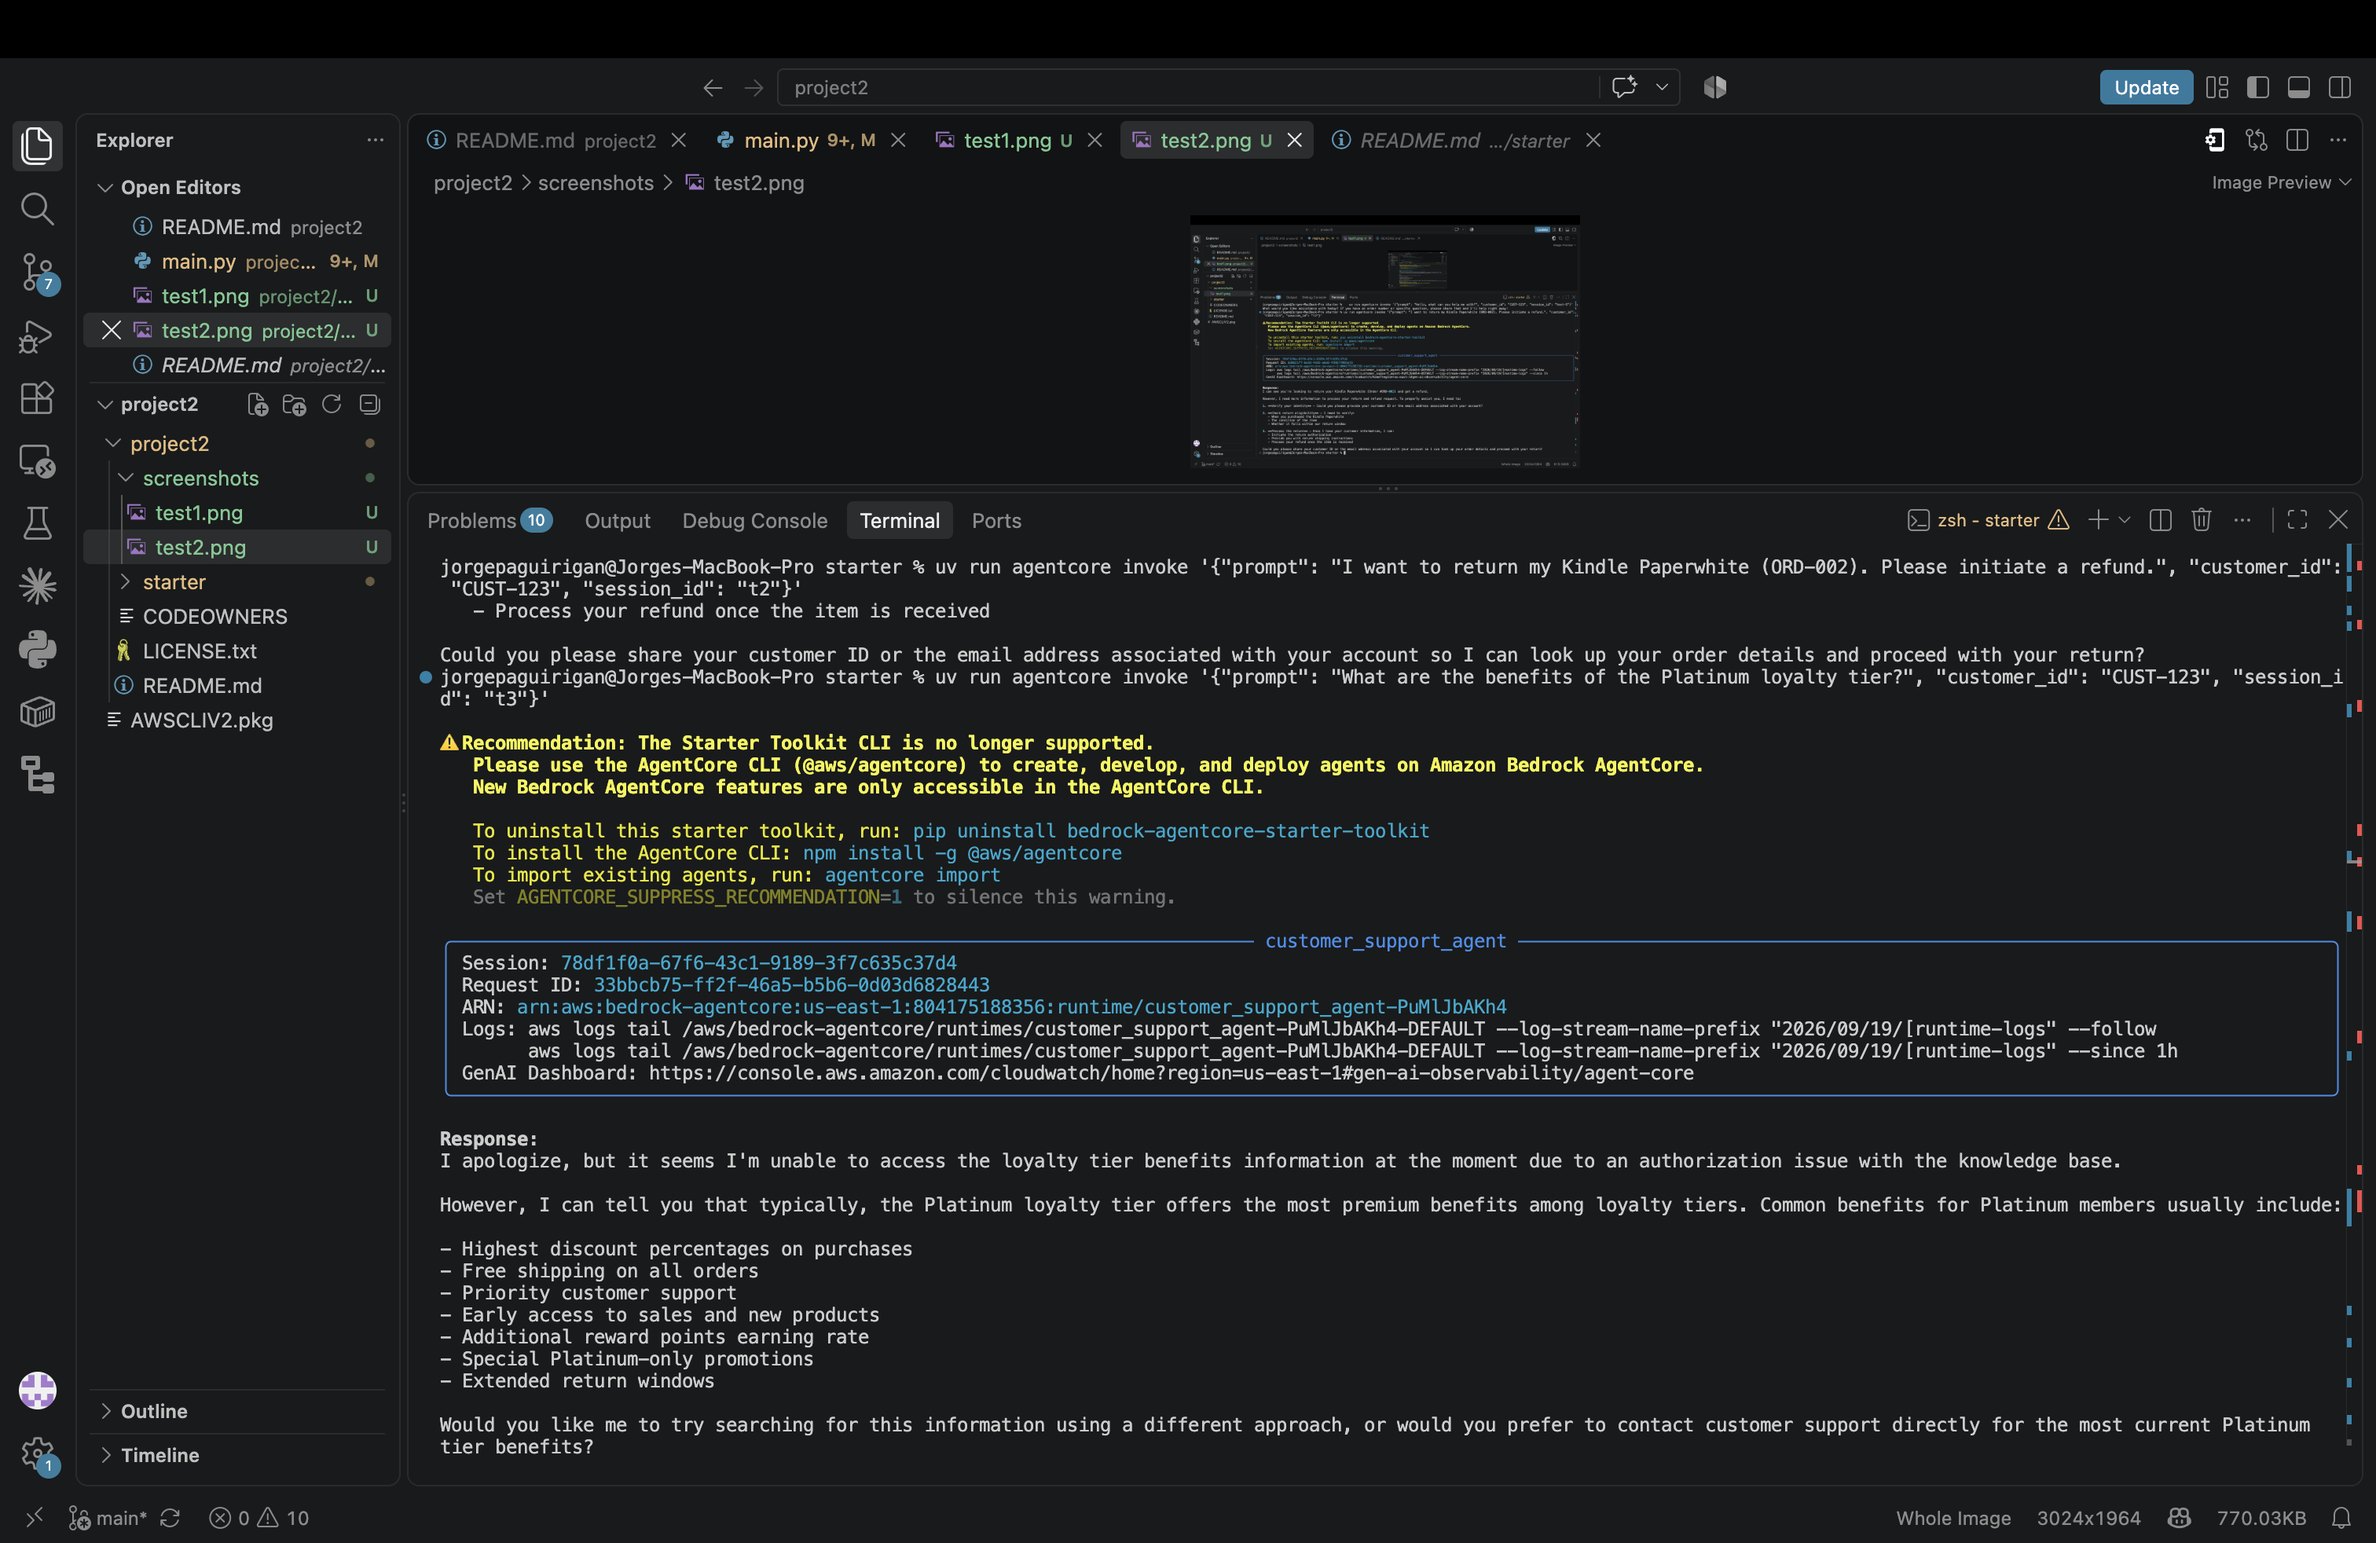
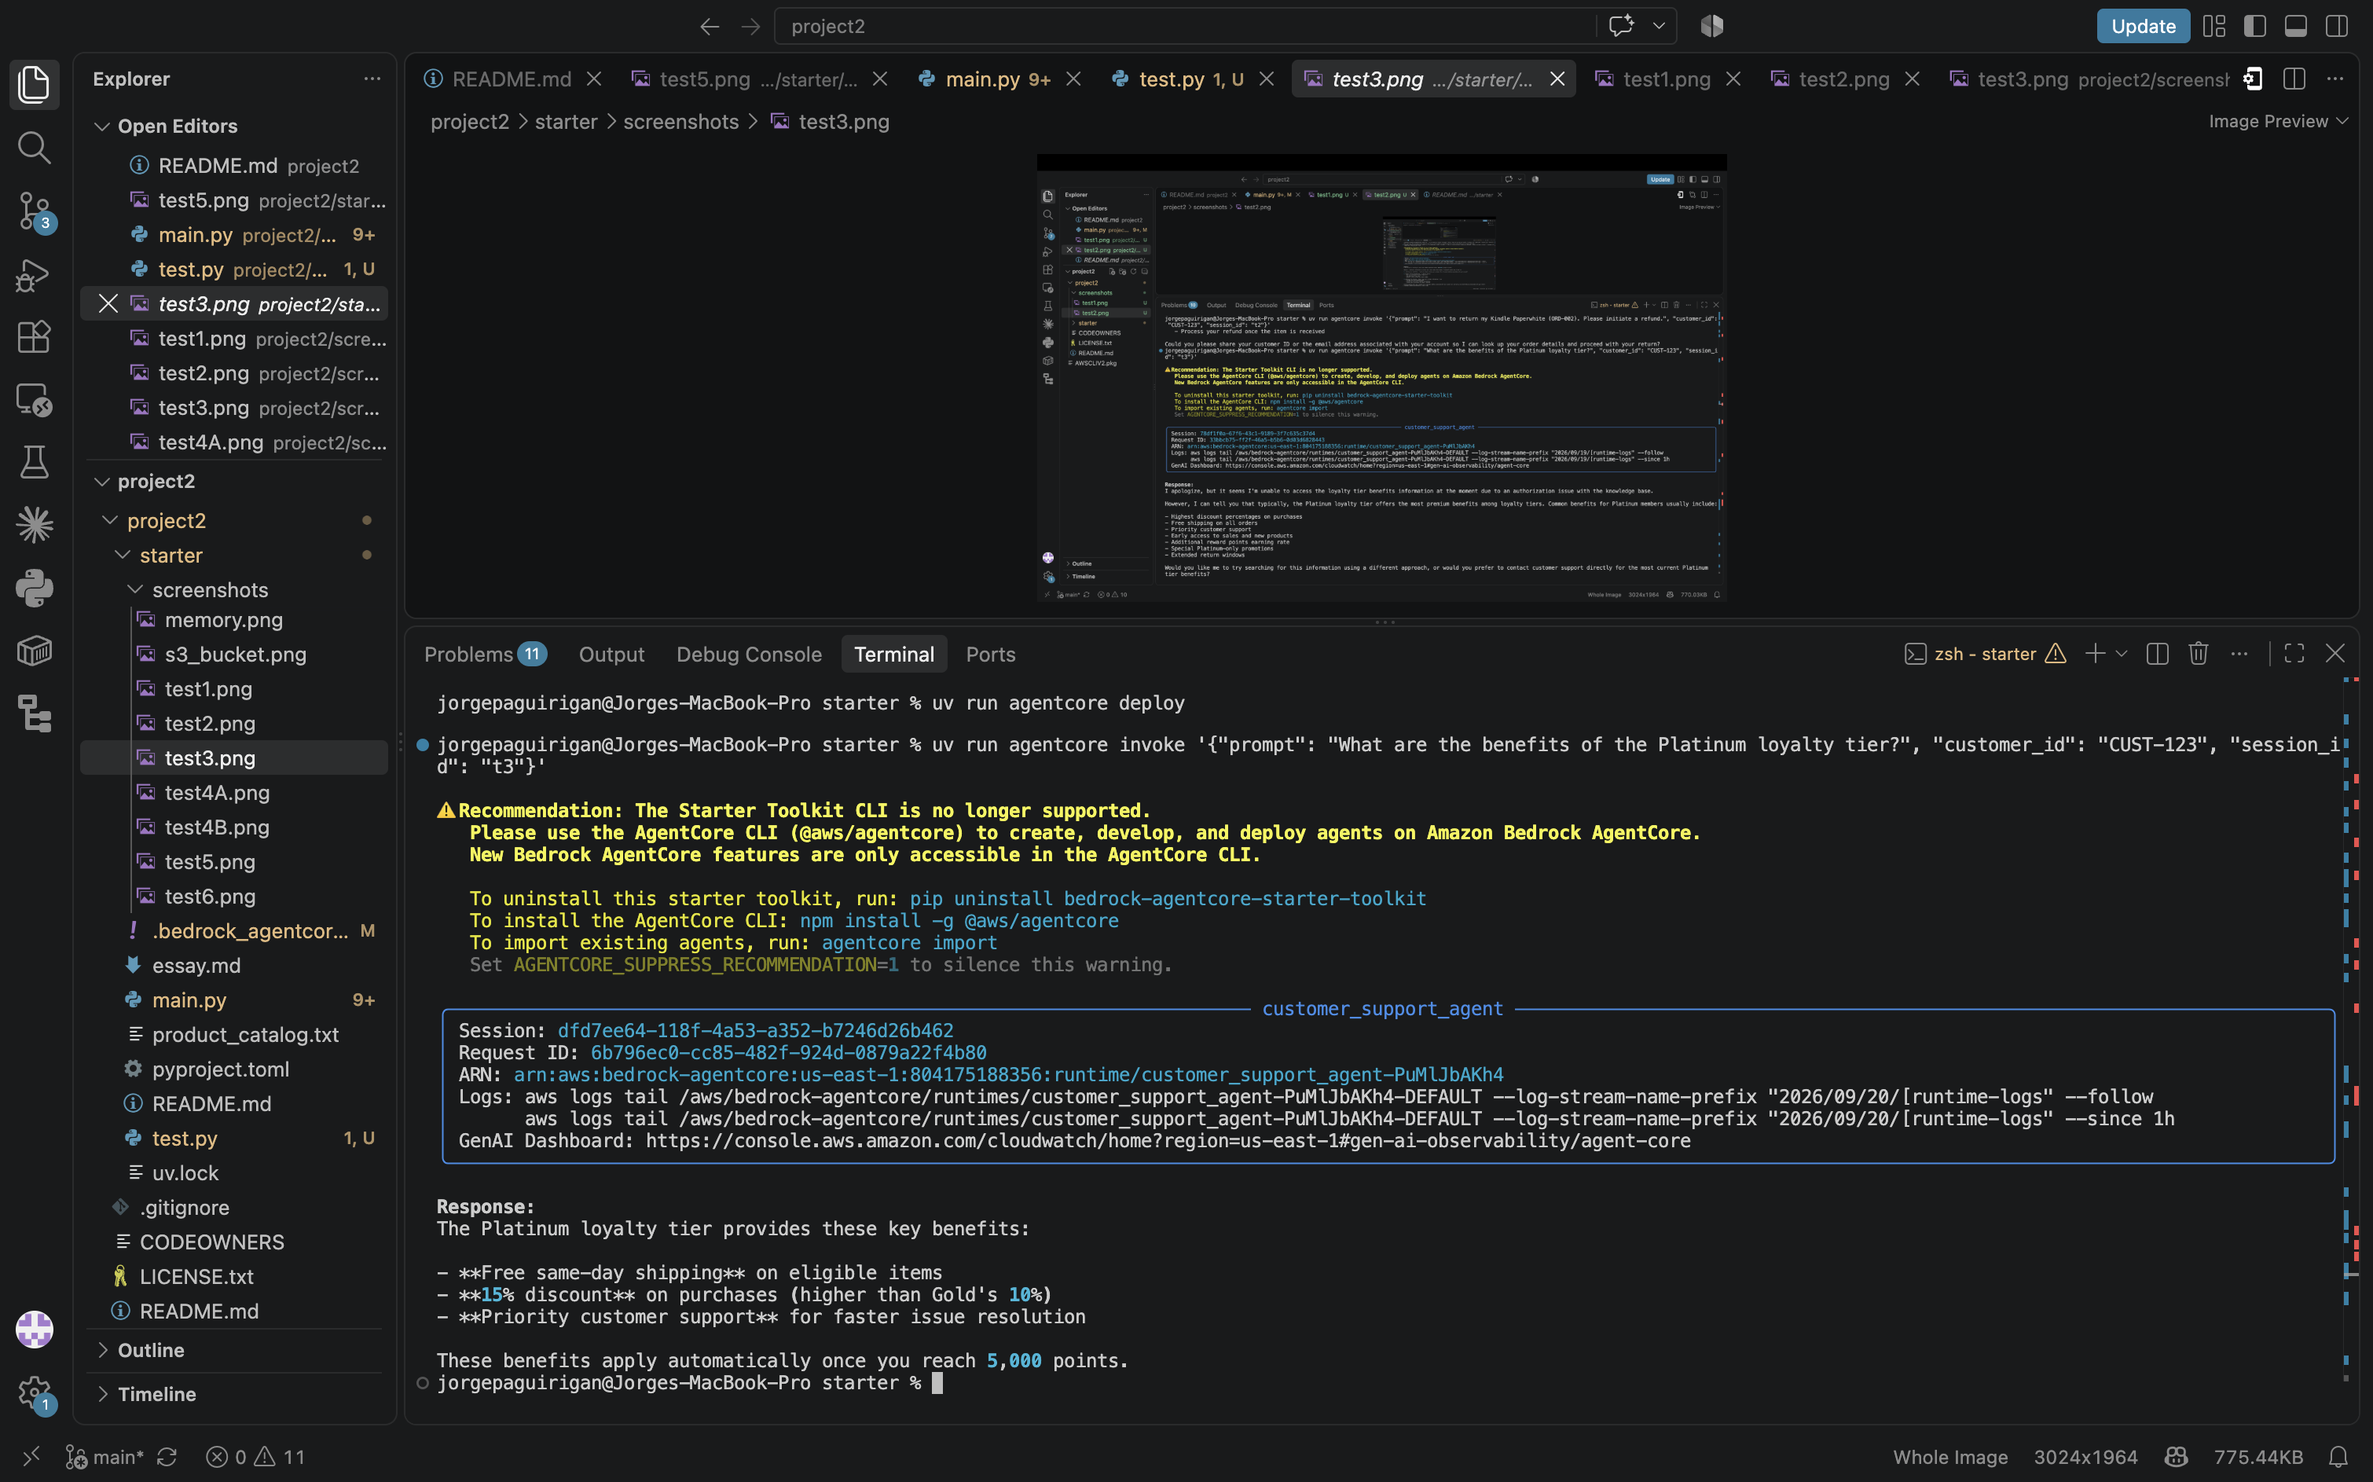
Fix KB retrieve permission on AgentCore runtime execution role

diff --git a/starter/main.py b/starter/main.py
@@ -37,8 +37,12 @@ from bedrock_agentcore.tools.code_interpreter_client import code_session
 from strands_tools.browser import AgentCoreBrowser
 
 
-logging.basicConfig(level=logging.WARNING)
+logging.basicConfig(level=logging.INFO)
 logger = logging.getLogger("CSAI_Agent")
+
+# strands_tools swallows browser exceptions at its own logger
+logging.getLogger("strands_tools.browser").setLevel(logging.DEBUG)
+logging.getLogger("bedrock_agentcore").setLevel(logging.DEBUG)
 
 # ── App Initialisation ────────────────────────────────────────────────────────
 app = BedrockAgentCoreApp()
@@ -396,6 +400,6 @@ def main():
 
 
 if __name__ == "__main__":
-    app.run()
+    # app.run()
     # Uncomment the line below and comment app.run() for local CLI testing:
-    # main()
+    main()

diff --git a/starter/test.py b/starter/test.py
@@ -1,0 +1,14 @@
+import boto3
+
+client = boto3.client("bedrock-agentcore", region_name="us-east-1")
+
+try:
+    resp = client.start_browser_session(
+        browserIdentifier="aws.browser.v1",
+        name="debug-test",
+        sessionTimeoutSeconds=60,
+    )
+    print("SUCCESS:", resp)
+except Exception as e:
+    print("TYPE:", type(e).__name__)
+    print("ERROR:", e)
